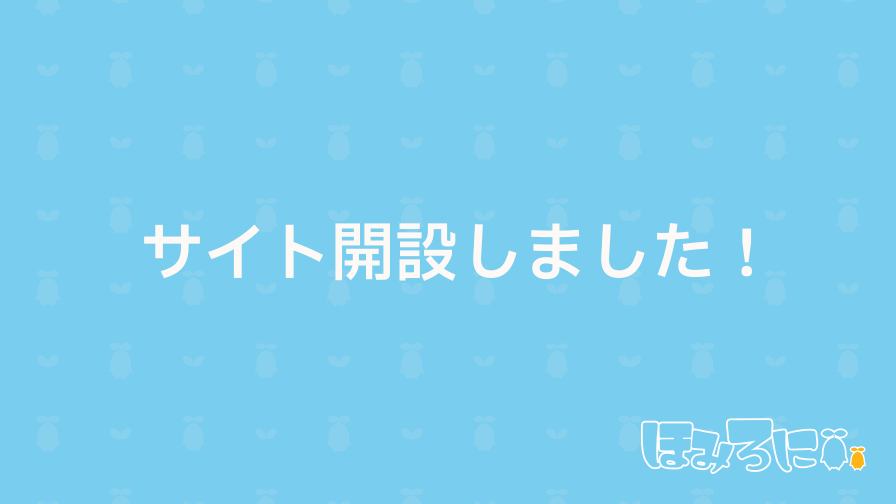
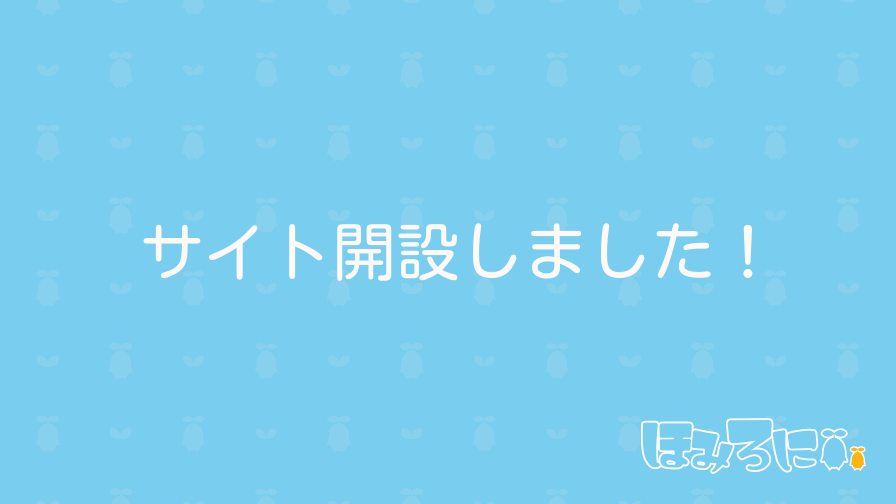
フォント変更

diff --git a/_src/styles/base.css b/_src/styles/base.css
@@ -1,5 +1,6 @@
 html {
-	font-family: "IBM Plex Sans JP", sans-serif;
+	font-family: "Kosugi Maru", sans-serif;
+
 	background-color: var(--color-main);
 	background-image: url(/images/background.svg);
 	background-size: 256px;

diff --git a/_src/styles/home.css b/_src/styles/home.css
@@ -26,9 +26,6 @@
 }
 
 .updateInfo h2 {
-	font-family: yusei-magic, sans-serif;
-	font-style: normal;
-	font-weight: 400;
 	font-size: 2em;
 	margin-bottom: 1.6em;
 	text-align: center;
